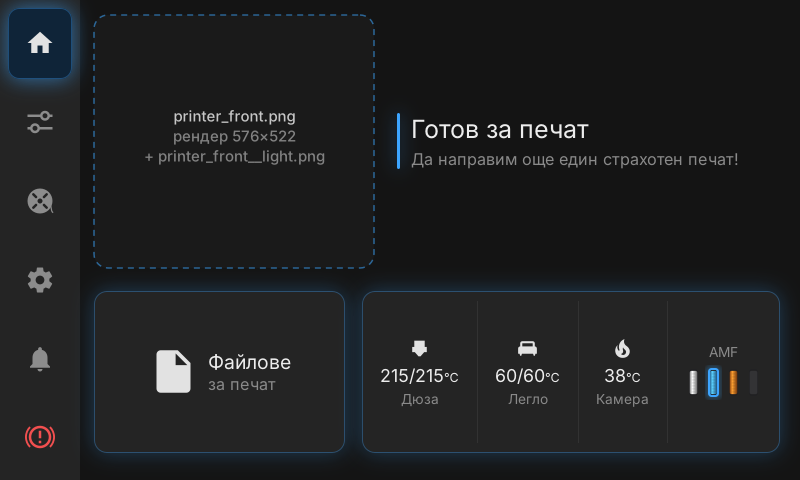
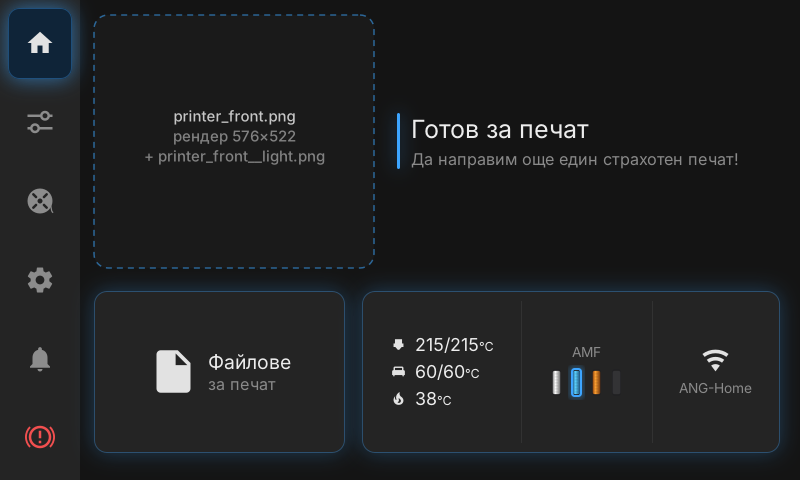
Home: group temperatures in one cell, add network status cell
Nozzle, bed and chamber temperatures now share one button that opens
the control page. A new cell shows Wi-Fi signal and SSID, cable, or
no connection, read from /proc/net/wireless and /sys/class/net every
10 s while the home page is visible.

Claude-Session: https://claude.ai/code/session_01UDXxExjckQXFuTFM9n4juG

Changed region(s): [[0.625, 0.7188, 0.8125, 0.8438], [0.4688, 0.6875, 0.5938, 0.8438], [0.8438, 0.7188, 0.9375, 0.8438]]

diff --git a/styles/ang-bambu/style.css b/styles/ang-bambu/style.css
@@ -729,3 +729,12 @@ progressbar.ang-progress progress {
     border-radius: 1em;
     box-shadow: 0 0 .6em @glow-strong;
 }
+
+/* Начален екран: няма мрежа */
+button.ang-offline image {
+    opacity: .35;
+}
+
+button.ang-offline label {
+    color: @warning;
+}

diff --git a/addons/ang_ender/panels/ang_home.py b/addons/ang_ender/panels/ang_home.py
@@ -1,7 +1,7 @@
 """Начален екран: рендер на принтера, поздрав, карта „Файлове“, карта за състояние."""
 import os
 
-from gi.repository import Gtk
+from gi.repository import GLib, Gtk
 
 from ks_addons.ang_ender import ui
 from ks_addons.ang_ender.base import AngPanel
@@ -57,29 +57,64 @@ class Panel(AngPanel):
 
         status = Gtk.Box(homogeneous=False, hexpand=True)
         status.get_style_context().add_class("ang-card")
-        self.labels["nozzle"] = self._cell(status, "extruder", "Дюза", lambda *_: self.open("ang_nozzle"))
-        self.labels["bed"] = self._cell(status, "bed", "Легло", lambda *_: self.open("ang_numpad", "Легло", device="heater_bed", render="printer_bed"))
-        self.labels["chamber"] = self._cell(status, "heater", "Камера", lambda *_: self.open("ang_air"))
+        self._temps_cell(status)
         self._amf_cell(status)
+        self._net_cell(status)
         cards.pack_start(status, True, True, 0)
         root.pack_start(cards, False, False, 0)
 
         self.content.add(root)
         self._find_latest_file()
 
-    def _cell(self, parent, icon, caption, cb):
+    def _temps_cell(self, parent):
+        """Един бутон с трите температури (дюза, легло, камера) -> Управление."""
         fs = self._gtk.font_size
         btn = Gtk.Button(hexpand=True, vexpand=True)
         btn.get_style_context().add_class("ang-cell")
-        box = Gtk.Box(orientation=Gtk.Orientation.VERTICAL, spacing=int(fs * 0.2), valign=Gtk.Align.CENTER)
-        box.add(self._gtk.Image(icon, fs * 1.6, fs * 1.6))
-        val = ui.label("--", "ang-cell-value", xalign=0.5, markup=True)
-        box.add(val)
-        box.add(ui.label(caption, "ang-caption", xalign=0.5))
-        btn.add(box)
-        btn.connect("clicked", cb)
+        grid = Gtk.Grid(row_spacing=int(fs * 0.25), column_spacing=int(fs * 0.5), halign=Gtk.Align.CENTER, valign=Gtk.Align.CENTER)
+        for row, (key, icon) in enumerate((("nozzle", "extruder"), ("bed", "bed"), ("chamber", "heater"))):
+            grid.attach(self._gtk.Image(icon, fs * 1.1, fs * 1.1), 0, row, 1, 1)
+            val = ui.label("--", "ang-cell-value", markup=True)
+            grid.attach(val, 1, row, 1, 1)
+            self.labels[key] = val
+        btn.add(grid)
+        btn.connect("clicked", lambda *_: self.open("ang_control"))
         parent.pack_start(btn, True, True, 0)
-        return val
+
+    def _net_cell(self, parent):
+        """Връзка: Wi-Fi със сила на сигнала, кабел или „Няма връзка“ -> страница Мрежа."""
+        fs = self._gtk.font_size
+        btn = Gtk.Button(hexpand=True, vexpand=True)
+        btn.get_style_context().add_class("ang-cell")
+        box = Gtk.Box(orientation=Gtk.Orientation.VERTICAL, spacing=int(fs * 0.3), valign=Gtk.Align.CENTER)
+        self.net_icon = Gtk.Image(halign=Gtk.Align.CENTER)
+        self.net_lbl = ui.label("Wi-Fi", "ang-caption", xalign=0.5)
+        box.add(self.net_icon)
+        box.add(self.net_lbl)
+        btn.add(box)
+        btn.connect("clicked", lambda *_: self.open("network"))
+        parent.pack_start(btn, True, True, 0)
+        self.net_btn = btn
+        self._net_timer = None
+        self._update_net()
+
+    def _update_net(self):
+        fs = self._gtk.font_size
+        kind, q, name = ui.network_status()
+        ctx = self.net_btn.get_style_context()
+        if kind == "wifi":
+            self.net_icon.set_from_pixbuf(self._gtk.PixbufFromIcon(ui.wifi_icon(q), fs * 1.8, fs * 1.8))
+            self.net_lbl.set_text(name or "Wi-Fi")
+            ctx.remove_class("ang-offline")
+        elif kind == "eth":
+            self.net_icon.set_from_pixbuf(self._gtk.PixbufFromIcon("network", fs * 1.8, fs * 1.8))
+            self.net_lbl.set_text("Кабел")
+            ctx.remove_class("ang-offline")
+        else:
+            self.net_icon.set_from_pixbuf(self._gtk.PixbufFromIcon("wifi_weak", fs * 1.8, fs * 1.8))
+            self.net_lbl.set_text("Няма връзка")
+            ctx.add_class("ang-offline")
+        return True
 
     def _amf_cell(self, parent):
         fs = self._gtk.font_size
@@ -119,6 +154,14 @@ class Panel(AngPanel):
     def activate(self):
         self._find_latest_file()
         self.refresh()
+        self._update_net()
+        if self._net_timer is None:
+            self._net_timer = GLib.timeout_add_seconds(10, self._update_net)
+
+    def deactivate(self):
+        if self._net_timer is not None:
+            GLib.source_remove(self._net_timer)
+            self._net_timer = None
 
     def refresh(self):
         self.labels["nozzle"].set_markup(self.temp_text("extruder"))

diff --git a/addons/ang_ender/ui.py b/addons/ang_ender/ui.py
@@ -446,3 +446,46 @@ class Numpad(Gtk.Grid):
 
     def value(self):
         return int(self.text) if self.text else None
+
+
+def network_status():
+    """(вид, качество 0..100, име) — вид е "wifi", "eth" или None.
+
+    Чете /proc/net/wireless и /sys/class/net (без NetworkManager), за да е леко.
+    """
+    import subprocess
+
+    try:
+        with open("/proc/net/wireless") as f:
+            for line in f.readlines()[2:]:
+                parts = line.split()
+                iface = parts[0].rstrip(":")
+                q = float(parts[2].rstrip("."))
+                if q > 0:
+                    ssid = ""
+                    try:
+                        ssid = subprocess.run(["iwgetid", "-r", iface], capture_output=True, text=True, timeout=1).stdout.strip()
+                    except Exception:
+                        pass
+                    return "wifi", min(100, int(q * 100 / 70)), ssid
+    except Exception:
+        pass
+    try:
+        for iface in os.listdir("/sys/class/net"):
+            if iface.startswith(("eth", "en")):
+                with open(f"/sys/class/net/{iface}/carrier") as f:
+                    if f.read().strip() == "1":
+                        return "eth", 100, iface
+    except Exception:
+        pass
+    return None, 0, ""
+
+
+def wifi_icon(quality):
+    if quality >= 75:
+        return "wifi_excellent"
+    if quality >= 50:
+        return "wifi_good"
+    if quality >= 25:
+        return "wifi_fair"
+    return "wifi_weak"

diff --git a/tools/preview_pages.py b/tools/preview_pages.py
@@ -81,6 +81,10 @@ class FakeGtk:
     img_width = img_height = FS * 3
     _executor = None
 
+    def PixbufFromIcon(self, name, w=None, h=None):
+        p = os.path.join(THEME, "images", name + ".svg")
+        return GdkPixbuf.Pixbuf.new_from_file_at_size(p, int(w or FS * 3), int(h or FS * 3))
+
     def Image(self, name, w=None, h=None):
         p = os.path.join(THEME, "images", name + ".svg")
         if not os.path.exists(p):
@@ -111,6 +115,8 @@ screen = types.SimpleNamespace(
     _send_action=lambda *a, **k: None, state=types.SimpleNamespace(printer_name="ANGEnder"),
 )
 nav_mod = importlib.import_module("ks_addons.ang_ender.nav")
+# в контейнера няма Wi-Fi: показваме примерна връзка
+importlib.import_module("ks_addons.ang_ender.ui").network_status = lambda: ("wifi", 82, "ANG-Home")
 
 PAGES = [
     ("01-home", "ang_home", "home", {}),
